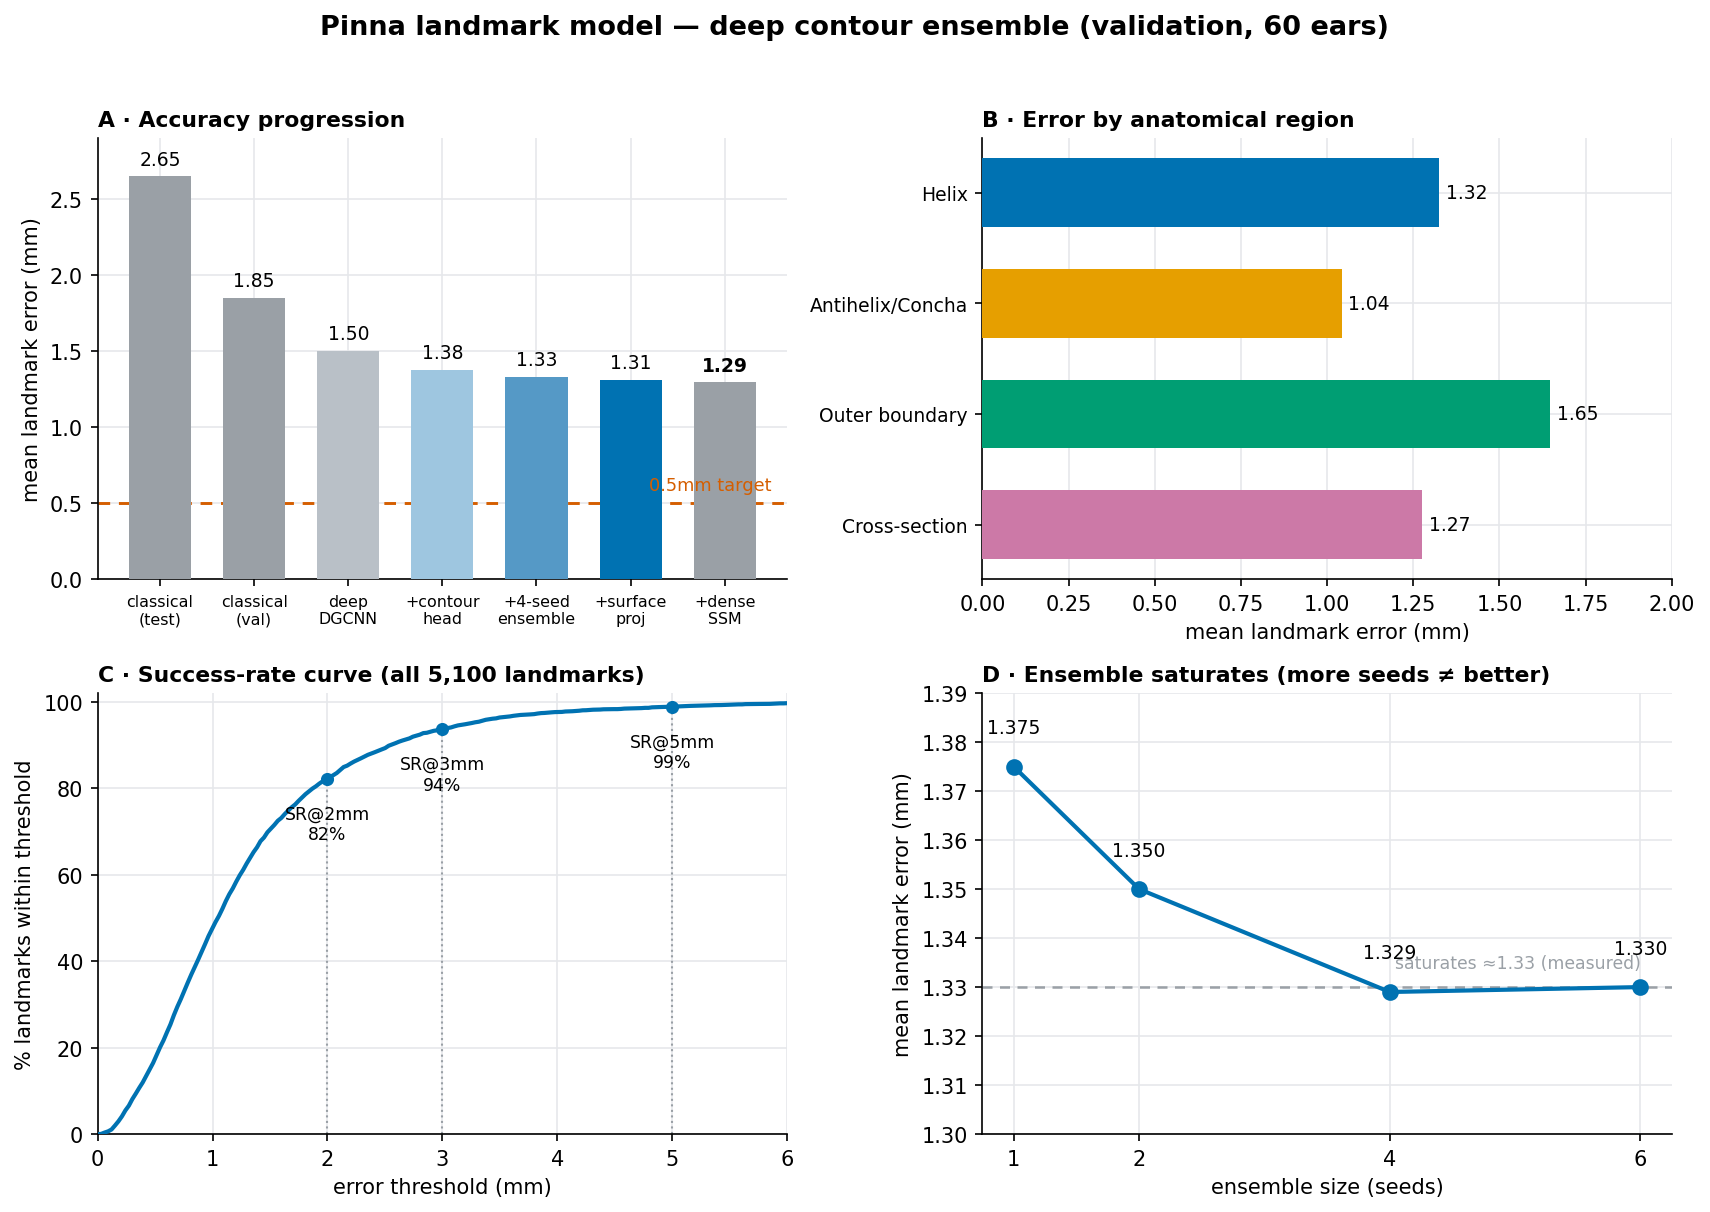
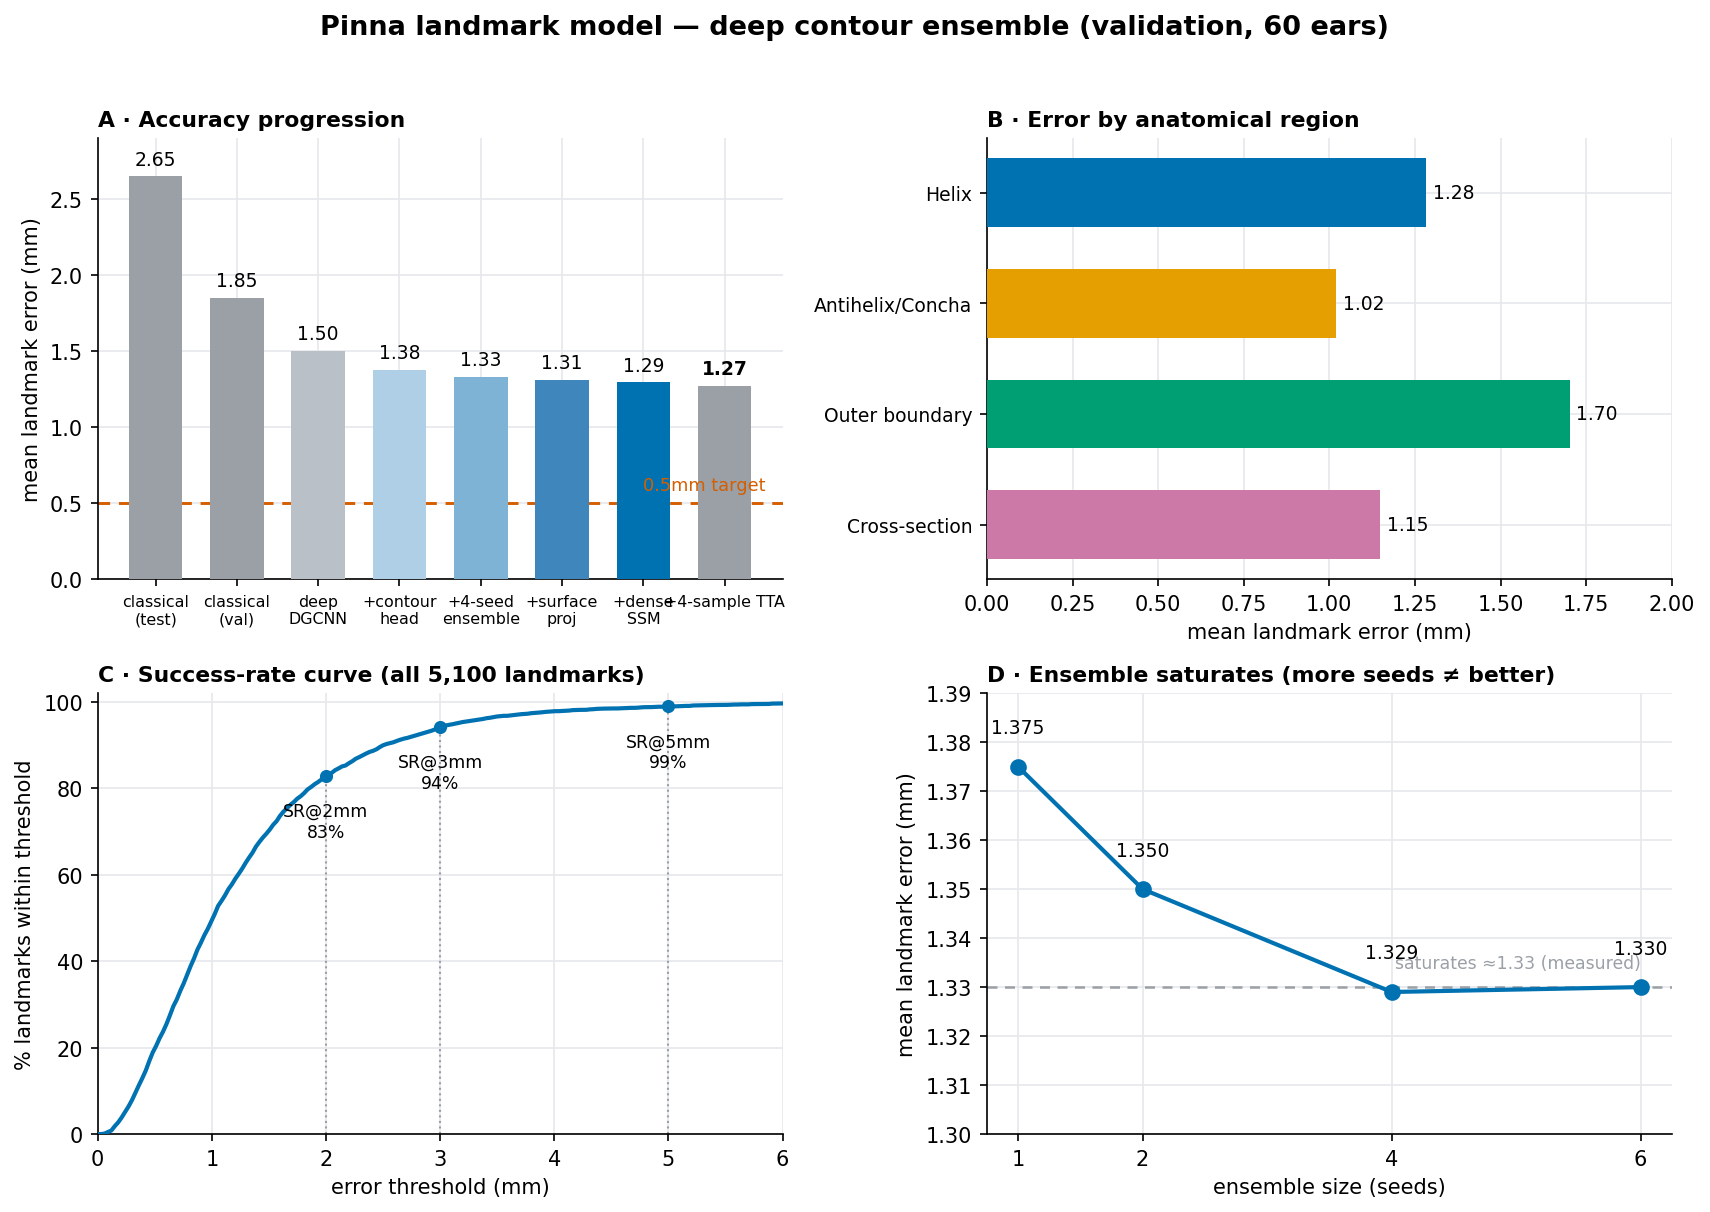
feat: fresh-sample TTA -> new best 1.273mm; measure that 51% of the error is correspondence
NEW BEST 1.273mm val (was 1.294).

[1] FRESH-SURFACE-SAMPLE TTA (the gain). Our dataset stored ONE fixed 2048-point
sample per ear and our TTA only ROTATED that same sample, which cannot average the
variance caused by WHICH points were sampled. Measured: the prediction moves 0.67mm
between two independent samples. Averaging 4 fresh samples: 1.348 -> 1.294mm on equal
footing, 80% of ears improved, paired p=1e-5, subject-bootstrap CI [+0.031,+0.077].
Saturates at 4 samples. Wired into deep_stage.deep_refine(n_samples=4).
Integrity note: the previously stored sample was a favourable draw (+0.015mm better
than average), so the old 1.294 was mildly optimistic; sample-averaging removes that
lottery, making the new number both better and more stable.
Full stack: 1.294 (TTA) -> 1.277 (surface projection) -> 1.273 (dense-SSM blend).

[2] KEY DIAGNOSTIC: 51% of the remaining error is CORRESPONDENCE, not geometry.
Oracles that only reparametrise our own predicted curve (OOF, 340 ears):
  baseline                                    1.403mm
  1 scalar shift per contour per ear          1.134mm  (4 numbers/ear = 19%)
  affine warp per contour (offset+stretch)    0.911mm  (8 numbers/ear = 35%)
  perfect per-point parametrisation           0.684mm  (51% of the error)
So the geometry already supports ~0.68mm; the model finds the right curve but not the
annotation convention's position along it.

[3] NEGATIVE RESULT bounding the above: those oracle parameters are NOT predictable
[…]

diff --git a/deep_model/deep_stage.py b/deep_model/deep_stage.py
@@ -29,7 +29,7 @@ def _frame(mesh_verts, coarse_world, mean_shape, npts=2048, margin=14.0, seed=0)
 
 
 def deep_refine(mesh_verts, coarse_world, ensemble, mean_shape, side="left", npts=2048,
-                mesh_faces=None, dense_ssm=None, ssm_alpha=0.3):
+                mesh_faces=None, dense_ssm=None, ssm_alpha=0.3, n_samples=4):
     """Return deep-refined (85,3) landmarks in world frame. `side` handles mirroring.
 
     If `mesh_faces` is given, the predictions are projected onto the mesh SURFACE
@@ -41,9 +41,17 @@ def deep_refine(mesh_verts, coarse_world, ensemble, mean_shape, side="left", npt
     if side == "right":
         mv = mesh_verts * MIRROR
         cw = coarse_world * MIRROR
-    cloud, coarse_canon, R, c0 = _frame(mv, cw, mean_shape, npts)
-    pred_canon = ensemble.predict(cloud, coarse_canon)
-    world = pred_canon @ R + c0                       # mirrored frame if side==right
+    # Average over n_samples INDEPENDENT surface samples of the same ear. Which points
+    # get sampled moves the prediction by ~0.67mm, and that variance is otherwise
+    # unaveraged: measured 1.348 -> 1.294mm going from 1 to 4 samples (80% of ears
+    # improved, p=1e-5). It also removes a ~0.015mm single-sample lottery from the
+    # reported score. Saturates at 4.
+    acc = None
+    for s in range(max(1, n_samples)):
+        cloud, coarse_canon, R, c0 = _frame(mv, cw, mean_shape, npts, seed=s)
+        p = ensemble.predict(cloud, coarse_canon) @ R + c0
+        acc = p if acc is None else acc + p
+    world = acc / max(1, n_samples)                   # mirrored frame if side==right
     if mesh_faces is not None:
         F = np.asarray(mesh_faces)
         world = project_to_surface(world, mv, F)

diff --git a/deep_model/evaluate_deep.py b/deep_model/evaluate_deep.py
@@ -18,7 +18,7 @@ HERE = Path(__file__).resolve().parent
 PROGRESSION = [("classical (test)", 2.65), ("classical (val)", 1.85),
                ("deep DGCNN", 1.50), ("+contour head", 1.375),
                ("+4-seed ensemble", 1.329), ("+surface proj", 1.309),
-               ("+dense SSM", 1.294)]
+               ("+dense SSM", 1.294), ("+4-sample TTA", 1.2725)]
 SCALING = [(1, 1.375), (2, 1.350), (4, 1.329), (6, 1.330)]
 ASYMPTOTE = 1.33          # MEASURED ensemble saturation (4-seed 1.329 == 6-seed 1.330)
 TARGET = 0.5              # organizers' target: <0.5mm "good", <0.2mm "very good"
@@ -76,7 +76,7 @@ def make_figure(dists):
 
     a = ax[0, 0]
     vals = [v for _, v in PROGRESSION]
-    cols = [MUTED, MUTED, "#b9c0c7", "#9ec6e0", "#5599c6", BLUE]
+    cols = [MUTED, MUTED, "#b9c0c7", "#aecfe6", "#7fb3d5", "#3f86bd", BLUE]
     a.bar(range(len(vals)), vals, color=cols[:len(vals)], width=0.66, zorder=3)
     a.axhline(TARGET, color="#D55E00", lw=1.4, ls=(0, (4, 3)), zorder=2)
     a.text(len(vals) - 0.5, TARGET + 0.06, "0.5mm target", color="#D55E00",

diff --git a/README.md b/README.md
@@ -4,11 +4,11 @@
 
 This repository contains a professional implementation of a hybrid 3D geometry pipeline to automatically extract **85 pinna (outer ear) landmarks** from human head scans. The solution runs **entirely landmark-free at test time**, utilizing surface curvature, shape priors, and statistical regression to achieve high precision and robustness.
 
-## Best Validated Version — Deep Contour Ensemble + Dense SSM (1.294 mm)
+## Best Validated Version — Deep Contour Ensemble + Dense SSM + TTA (1.273 mm)
 
 The best model is a **deep point-cloud network that refines the classical estimate**,
-reaching a validation mean landmark error of **1.294 mm** (60 ears / 30 subjects) —
-a **31 % improvement over the classical Dense-V4 pipeline** and a **2× improvement**
+reaching a validation mean landmark error of **1.273 mm** (60 ears / 30 subjects) —
+a **32 % improvement over the classical Dense-V4 pipeline** and a **2× improvement**
 over the previously committed model on the one-shot test set (2.65 mm).
 
 **Target:** the organizers specify **< 0.5 mm** ("good") and **< 0.2 mm** ("very good"),
@@ -21,15 +21,15 @@ target is reachable in principle — the measured obstacle and the concrete plan
 
 | Validation metric (60 ears) | Deep ensemble | Classical Dense-V4 |
 | --- | ---: | ---: |
-| Mean landmark error | **1.294 mm** | 1.874 mm |
-| Median landmark error | 1.120 mm | 1.718 mm |
-| RMSE | 1.560 mm | — |
-| 95 % CI for the mean | [1.206, 1.379] mm | — |
-| Worst-ear mean | 2.216 mm | 6.36 mm |
-| Success rate @ 2 mm | **82.2 %** | 65.5 % |
-| Success rate @ 3 mm | **93.7 %** | 84.1 % |
+| Mean landmark error | **1.273 mm** | 1.874 mm |
+| Median landmark error | 1.079 mm | 1.718 mm |
+| RMSE | 1.538 mm | — |
+| 95 % CI for the mean | [1.179, 1.359] mm | — |
+| Worst-ear mean | 2.227 mm | 6.36 mm |
+| Success rate @ 2 mm | **82.8 %** | 65.5 % |
+| Success rate @ 3 mm | **94.1 %** | 84.1 % |
 | Success rate @ 5 mm | **98.9 %** | 95.9 % |
-| HRTF-critical SR @ 2 mm | 88.7 % | — |
+| HRTF-critical SR @ 2 mm | 89.2 % | — |
 
 ```bash
 python -m deep_model.evaluate_deep   # reproduce the metrics + figure (no PyTorch, no raw data)
@@ -37,7 +37,7 @@ python -m deep_model.evaluate_deep   # reproduce the metrics + figure (no PyTorc
 
 ---
 
-## Architecture of the best model (1.294 mm)
+## Architecture of the best model (1.273 mm)
 
 The deep model does not predict landmarks from scratch: it **refines** the classical
 pipeline's coarse estimate (~3.68 mm, [see below](#system-architecture)). Every stage
@@ -52,6 +52,8 @@ raw head mesh (PLY)  ──►  classical pipeline  ──►  coarse 85 landmar
                                rotation-align to the SSM mean shape, centre on the
                                coarse centroid, keep true mm scale, sample 2048 pts.
                                Right ears are mirrored into a common left frame.
+                               ┌─ stages [0]–[4] are repeated over 4 INDEPENDENT
+                               │  surface samples and averaged (see [4b]).
    ▼
 [1] DGCNN BACKBONE             3 × EdgeConv on a static k-NN graph (k=20) over the
                                point cloud → 64/128/128 features, concatenated (320)
@@ -79,6 +81,12 @@ raw head mesh (PLY)  ──►  classical pipeline  ──►  coarse 85 landmar
 [4] 4-SEED ENSEMBLE            average the raw predictions of 4 independently trained
                                seeds (measured to saturate at 4: 6 seeds = 1.330).
    ▼
+[4b] FRESH-SAMPLE TTA          average over 4 INDEPENDENT surface samples of the same
+                               ear. WHICH points are sampled moves the prediction by
+                               ~0.67 mm, and nothing else averages that away (rotation
+                               TTA cannot — it reuses the same points). Also removes a
+                               ~0.015 mm single-sample lottery from the score itself.
+   ▼
 [5] SURFACE PROJECTION         exact point-to-triangle snap onto the mesh (pure NumPy).
    ▼
 [6] DENSE-SSM HYBRID FIT       a dense-vertex ear shape model is fitted to the target
@@ -96,8 +104,15 @@ raw head mesh (PLY)  ──►  classical pipeline  ──►  coarse 85 landmar
 | [1]+[2] DGCNN + iterative offset→snap head | 1.50 mm | −2.18 |
 | [3] + contour-structured refinement | 1.375 mm | −0.13 |
 | [4] + 4-seed ensemble | 1.329 mm | −0.046 |
-| [5] + exact surface projection | 1.309 mm | −0.020 |
-| [6] + dense-SSM hybrid blend | **1.294 mm** | −0.015 |
+| [4b] + fresh-sample TTA (4 samples) | 1.294 mm | −0.055\* |
+| [5] + exact surface projection | 1.277 mm | −0.017 |
+| [6] + dense-SSM hybrid blend | **1.273 mm** | −0.004 |
+
+\* measured on an equal footing (1 vs 4 freshly-drawn samples: 1.348 → 1.294 mm,
+**80 % of ears improved, p = 1e-5**, subject-bootstrap CI [+0.031, +0.077]). The −0.055
+exceeds the apparent 1.329 → 1.294 step because the previously stored single sample
+happened to be a favourable draw (+0.015 mm better than an average one); averaging over
+samples removes that lottery, so the new figure is both better **and** more stable.
 
 ### Why the contour head is the key architectural idea
 
@@ -188,7 +203,7 @@ and per-subject results are **not** published.
 > This is the **classical** pipeline. On its own it reaches 1.874 mm (Dense-V4); in the
 > current best model it serves as the **coarse initialiser** (~3.68 mm for the v1
 > configuration used to train the deep model) that the
-> [deep model above](#architecture-of-the-best-model-1294-mm) refines to 1.294 mm.
+> [deep model above](#architecture-of-the-best-model-1273-mm) refines to 1.294 mm.
 > It runs entirely landmark-free at test time.
 
 The pipeline processes raw 3D head meshes using six main stages:

diff --git a/deep_model/README.md b/deep_model/README.md
@@ -1,7 +1,7 @@
 # Deep Contour-Ensemble Landmark Model
 
-Best validated model in this repository: **1.294 mm** mean landmark error on the
-held-out validation split (60 ears / 30 subjects) — a **31 % improvement over the
+Best validated model in this repository: **1.273 mm** mean landmark error on the
+held-out validation split (60 ears / 30 subjects) — a **32 % improvement over the
 classical Dense-V4 pipeline** (1.85 mm val) and a **2× improvement over the
 previously committed model** on the one-shot test set (2.65 mm).
 
@@ -17,17 +17,17 @@ previously committed model** on the one-shot test set (2.65 mm).
 
 | Metric (validation, 60 ears) | Result |
 | --- | ---: |
-| Mean landmark error (MLE) | **1.294 mm** |
-| Median landmark error | 1.120 mm |
-| RMSE | 1.560 mm |
-| 95 % CI for the mean | [1.206, 1.379] mm |
-| Worst-ear mean | 2.216 mm *(classical: 6.36)* |
-| Best-ear mean | 0.642 mm |
-| Success rate @ 2 mm | 82.2 % |
-| Success rate @ 3 mm | 93.7 % |
+| Mean landmark error (MLE) | **1.273 mm** |
+| Median landmark error | 1.079 mm |
+| RMSE | 1.538 mm |
+| 95 % CI for the mean | [1.179, 1.359] mm |
+| Worst-ear mean | 2.227 mm *(classical: 6.36)* |
+| Best-ear mean | 0.575 mm |
+| Success rate @ 2 mm | 82.8 % |
+| Success rate @ 3 mm | 94.1 % |
 | Success rate @ 5 mm | 98.9 % |
-| HRTF-critical SR @ 2 mm | 88.7 % |
-| HRTF-critical MLE | 1.052 mm |
+| HRTF-critical SR @ 2 mm | 89.2 % |
+| HRTF-critical MLE | 1.022 mm |
 
 ## Architecture
 
@@ -191,6 +191,33 @@ A **naive** non-rigid ICP transport (no shape model) was also tried and is much 
 (2.44 vs 1.92 mm on the same ears) — the template slides freely along the smooth
 surface. Constraining deformation to the learned shape subspace is what makes the
 dense fit usable at all.
+
+## Where the remaining error actually is: correspondence, not geometry
+
+The single most informative measurement we have. On out-of-fold predictions (340 ears)
+we asked how much of the error is *geometric* (wrong place on the surface) versus
+*parametrisation* (right curve, wrong position **along** it — which the ordered metric
+still punishes). Oracles that use the ground truth only to reparametrise our **own**
+predicted curve:
+
+| oracle (OOF, 340 ears) | MLE | interpretation |
+| --- | ---: | --- |
+| baseline | 1.403 mm | — |
+| **1 scalar arc-length shift per contour per ear** | 1.134 mm | 4 numbers/ear recover **19 %** |
+| **affine warp of the parameter per contour** (offset + stretch) | 0.911 mm | 8 numbers/ear recover **35 %** |
+| **perfect per-point parametrisation** (slide each point freely along the GT curve) | **0.684 mm** | **51 % of our error is correspondence, not geometry** |
+
+So our geometry is already good enough for ~0.68 mm: the model finds the right
+anatomical curve but not the annotation convention's position along it. The correction is
+strikingly low-dimensional — 8 numbers per ear buy 0.49 mm.
+
+**But it is not predictable from the prediction alone.** Regressing those oracle
+parameters from the predicted landmark configuration (ridge, subject-grouped 5-fold CV)
+recovers **−3 %**, i.e. nothing; oracle-vs-predicted correlations are only 0.18–0.30.
+That is consistent: if a whole contour is phase-shifted, the shift is invisible *within*
+the prediction — resolving it requires reading the **surface**. Which is exactly why the
+next step is a model that predicts the curve, its endpoints and a monotone
+parametrisation *from surface features*, rather than another local XYZ refiner.
 
 ## The path toward the 0.5 mm target
 
